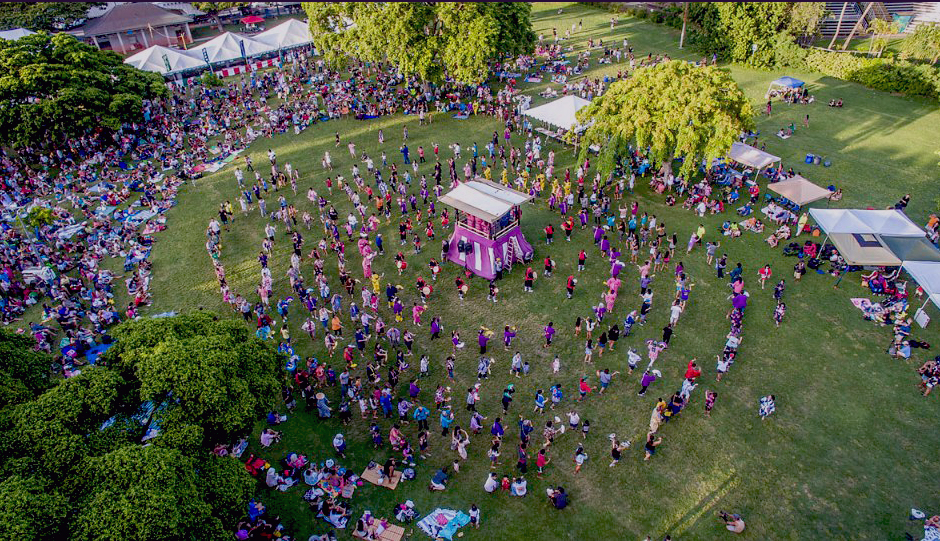
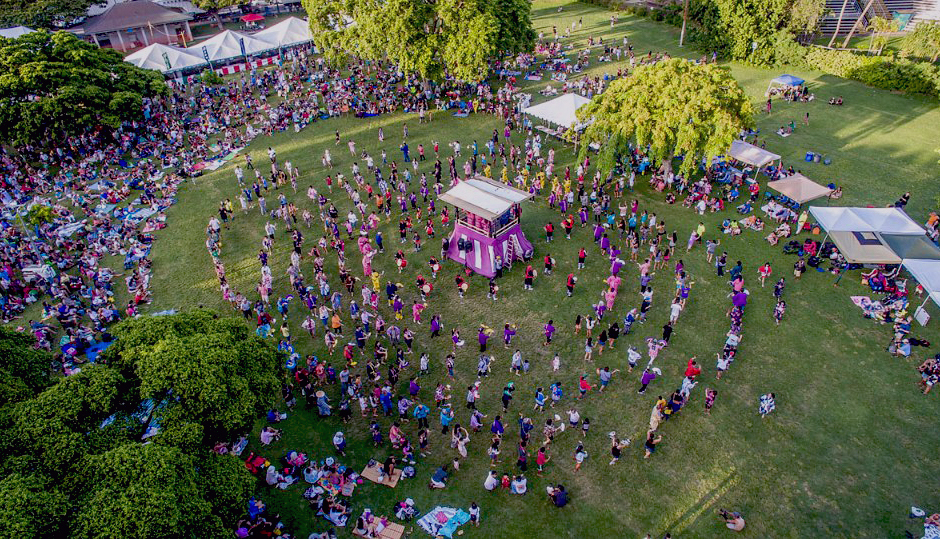
Edited Hero Images
Deleted png copy and switching images as a background img in css.

diff --git a/src/index.html b/src/index.html
@@ -46,7 +46,6 @@
       <p class="vol__copy">Lorem ipsum dolor sit amet, consectetur adipiscing elit. Nunc lobortis porta justo nec suscipit. Pellentesque laoreet magna bibendum molestie rutrum.
       </p>
       <button class"vol_button" type="button" name="">SIGN UP</button>
-      <img class="vol__header-image"src="images/vol-promo.png"/><h3>
     </div>
 
     <div class="photo">

diff --git a/src/scss/components/_promo.scss b/src/scss/components/_promo.scss
@@ -14,6 +14,8 @@
 .vol {
   border: 1px solid green;
   width: 45%;
+  background-image: url('../images/vol-promo.png');
+  min-height: 450px;
   float: left;
   clear: right;
 }
